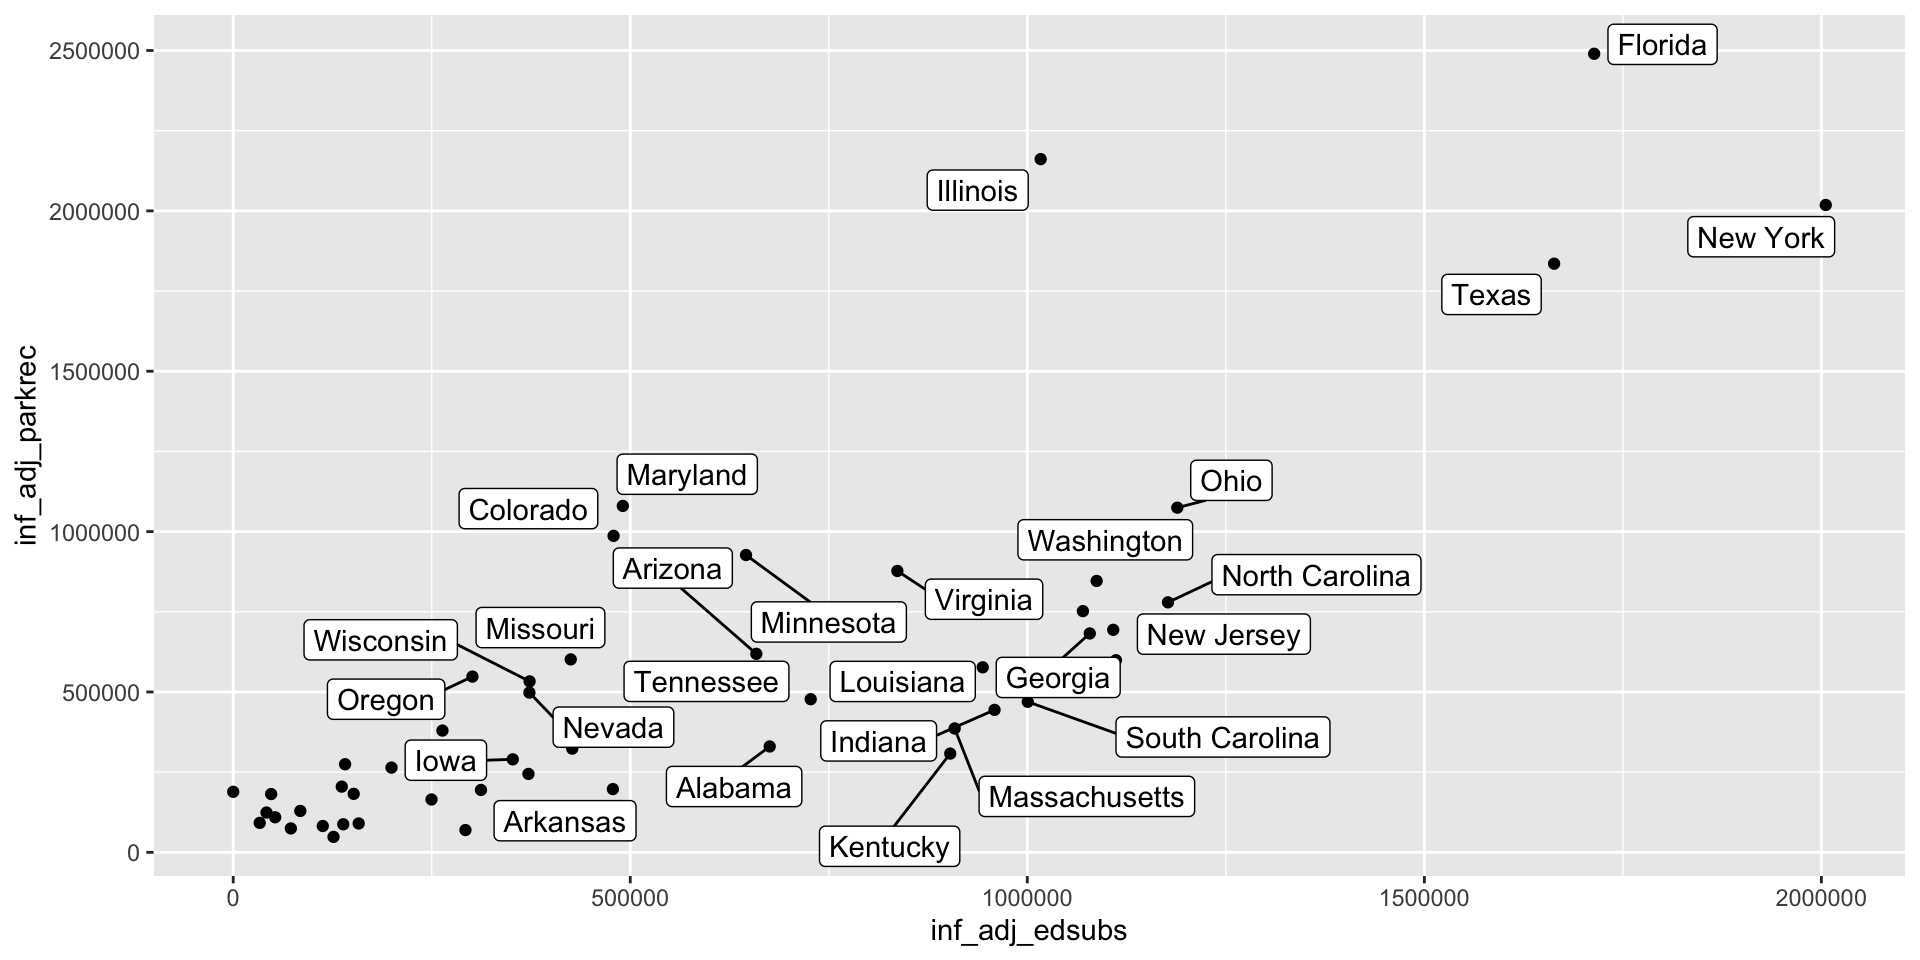
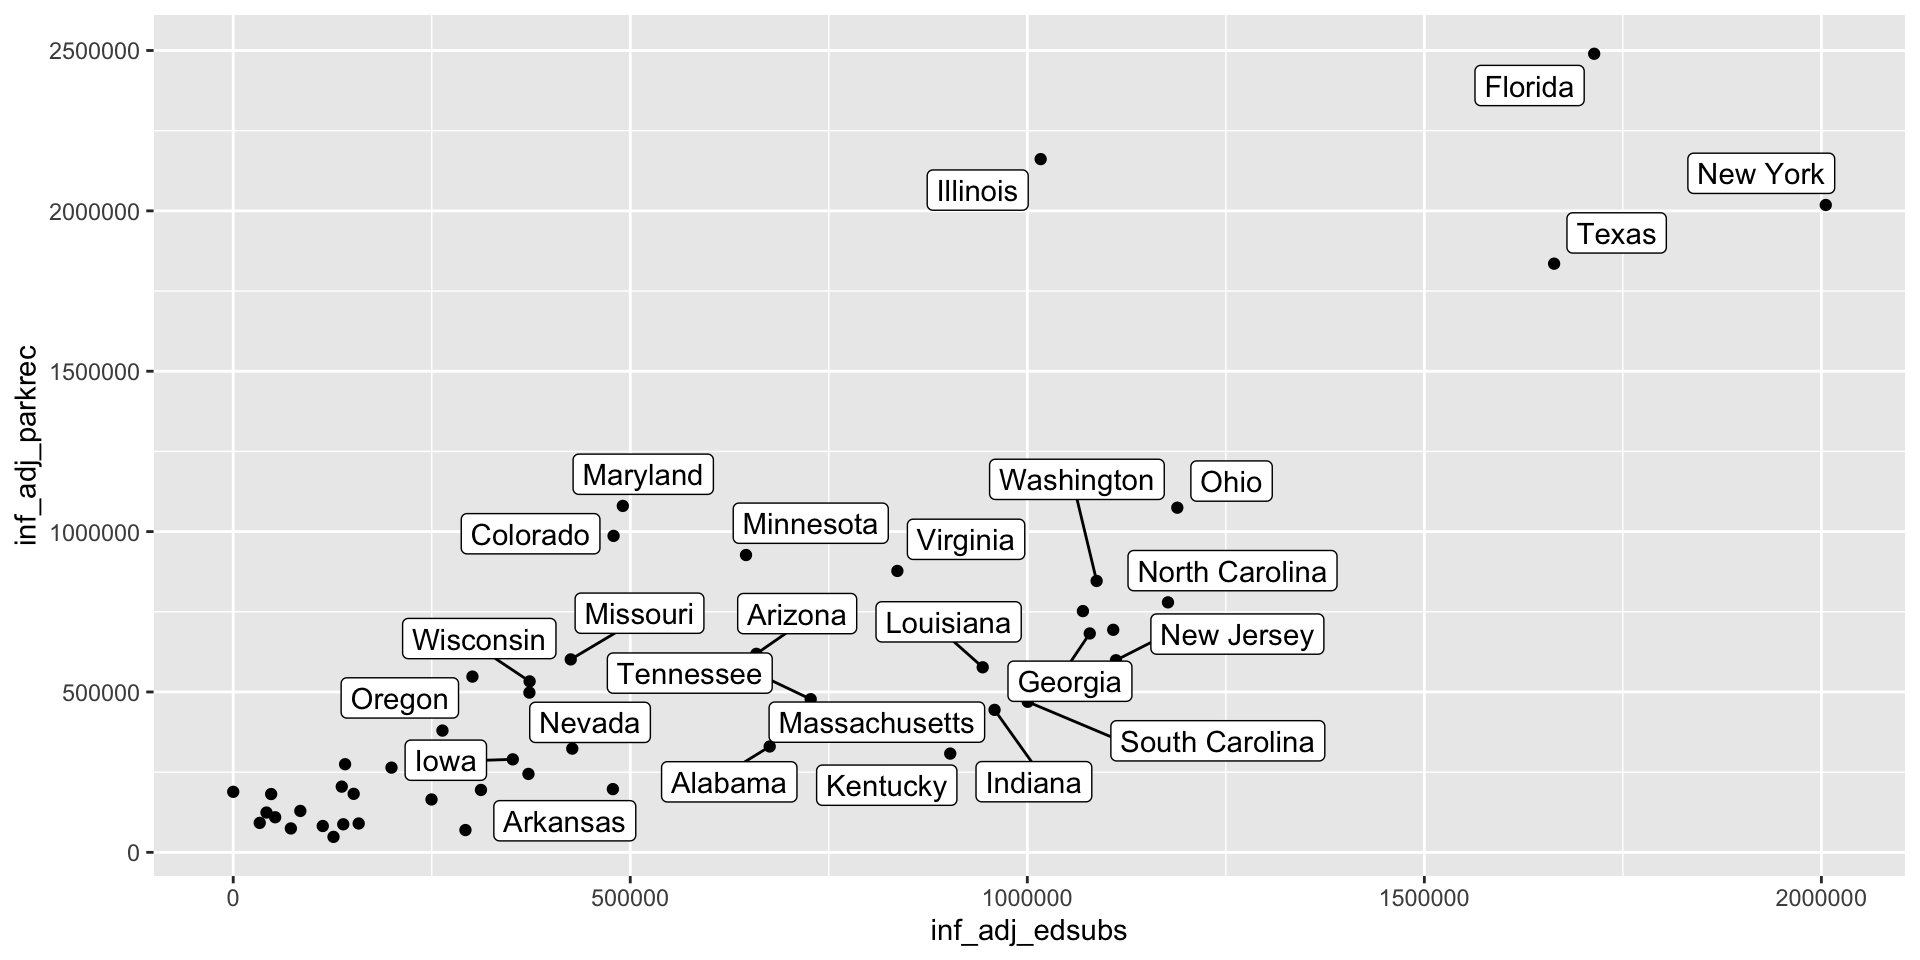
wk10 slide edits

diff --git a/week-10/slides.html b/week-10/slides.html
@@ -1295,17 +1295,18 @@ Dr.&nbsp;Kelly Boles
 </ul>
 </div>
 <div class="cell" data-layout-align="center">
-<div class="code-copy-outer-scaffold"><div class="sourceCode cell-code" id="cb42"><pre class="sourceCode numberSource r number-lines code-with-copy"><code class="sourceCode r"><span id="cb42-1"><a href="" aria-label="1"></a><span class="fu">ggplot</span>(penguins, <span class="fu">aes</span>(<span class="at">x =</span> flipper_length_mm)) <span class="sc">+</span></span>
-<span id="cb42-2"><a href="" aria-label="2"></a>     <span class="fu">geom_histogram</span>(<span class="fu">aes</span>(<span class="at">fill =</span> species), <span class="at">alpha =</span> <span class="fl">0.5</span>, <span class="at">position =</span> <span class="st">"identity"</span>) <span class="sc">+</span></span>
-<span id="cb42-3"><a href="" aria-label="3"></a>     <span class="fu">scale_fill_manual</span>(<span class="at">values =</span> <span class="fu">c</span>(<span class="st">"darkorange"</span>, <span class="st">"purple"</span>, <span class="st">"cyan4"</span>)) <span class="sc">+</span></span>
-<span id="cb42-4"><a href="" aria-label="4"></a>     <span class="fu">labs</span>(</span>
-<span id="cb42-5"><a href="" aria-label="5"></a>          <span class="at">x =</span> <span class="st">"Flipper length (mm)"</span>,</span>
-<span id="cb42-6"><a href="" aria-label="6"></a>          <span class="at">y =</span> <span class="st">"Frequency"</span>,</span>
-<span id="cb42-7"><a href="" aria-label="7"></a>          <span class="at">title =</span> <span class="st">"Distribution of flipper lengths"</span></span>
-<span id="cb42-8"><a href="" aria-label="8"></a>     ) <span class="sc">+</span></span>
-<span id="cb42-9"><a href="" aria-label="9"></a>     <span class="fu">theme_minimal</span>() <span class="sc">+</span></span>
-<span id="cb42-10"><a href="" aria-label="10"></a>     <span class="fu">facet_wrap</span>(<span class="sc">~</span>species, <span class="at">nrow =</span> <span class="dv">1</span>, <span class="at">scales =</span> <span class="st">"free_y"</span>) <span class="sc">+</span></span>
-<span id="cb42-11"><a href="" aria-label="11"></a>     <span class="fu">theme</span>(<span class="at">legend.position =</span> <span class="st">"none"</span>)</span></code></pre></div><button title="Copy to Clipboard" class="code-copy-button"><i class="bi"></i></button></div>
+<div class="code-copy-outer-scaffold"><div class="sourceCode cell-code" id="cb42"><pre class="sourceCode numberSource r number-lines code-with-copy"><code class="sourceCode r"><span id="cb42-1"><a href="" aria-label="1"></a>penguins <span class="sc">|&gt;</span></span>
+<span id="cb42-2"><a href="" aria-label="2"></a>     <span class="fu">ggplot</span>(<span class="fu">aes</span>(<span class="at">x =</span> flipper_length_mm)) <span class="sc">+</span></span>
+<span id="cb42-3"><a href="" aria-label="3"></a>     <span class="fu">geom_histogram</span>(<span class="fu">aes</span>(<span class="at">fill =</span> species), <span class="at">alpha =</span> <span class="fl">0.5</span>, <span class="at">position =</span> <span class="st">"identity"</span>) <span class="sc">+</span></span>
+<span id="cb42-4"><a href="" aria-label="4"></a>     <span class="fu">scale_fill_manual</span>(<span class="at">values =</span> <span class="fu">c</span>(<span class="st">"darkorange"</span>, <span class="st">"purple"</span>, <span class="st">"cyan4"</span>)) <span class="sc">+</span></span>
+<span id="cb42-5"><a href="" aria-label="5"></a>     <span class="fu">labs</span>(</span>
+<span id="cb42-6"><a href="" aria-label="6"></a>          <span class="at">x =</span> <span class="st">"Flipper length (mm)"</span>,</span>
+<span id="cb42-7"><a href="" aria-label="7"></a>          <span class="at">y =</span> <span class="st">"Frequency"</span>,</span>
+<span id="cb42-8"><a href="" aria-label="8"></a>          <span class="at">title =</span> <span class="st">"Distribution of flipper lengths"</span></span>
+<span id="cb42-9"><a href="" aria-label="9"></a>     ) <span class="sc">+</span></span>
+<span id="cb42-10"><a href="" aria-label="10"></a>     <span class="fu">theme_minimal</span>() <span class="sc">+</span></span>
+<span id="cb42-11"><a href="" aria-label="11"></a>     <span class="fu">facet_wrap</span>(<span class="sc">~</span>species, <span class="at">nrow =</span> <span class="dv">1</span>, <span class="at">scales =</span> <span class="st">"free_y"</span>) <span class="sc">+</span></span>
+<span id="cb42-12"><a href="" aria-label="12"></a>     <span class="fu">theme</span>(<span class="at">legend.position =</span> <span class="st">"none"</span>)</span></code></pre></div><button title="Copy to Clipboard" class="code-copy-button"><i class="bi"></i></button></div>
 
 </div>
 <img data-src="slides_files/figure-revealjs/unnamed-chunk-47-1.png" class="quarto-figure quarto-figure-center r-stretch" width="960"></section>
